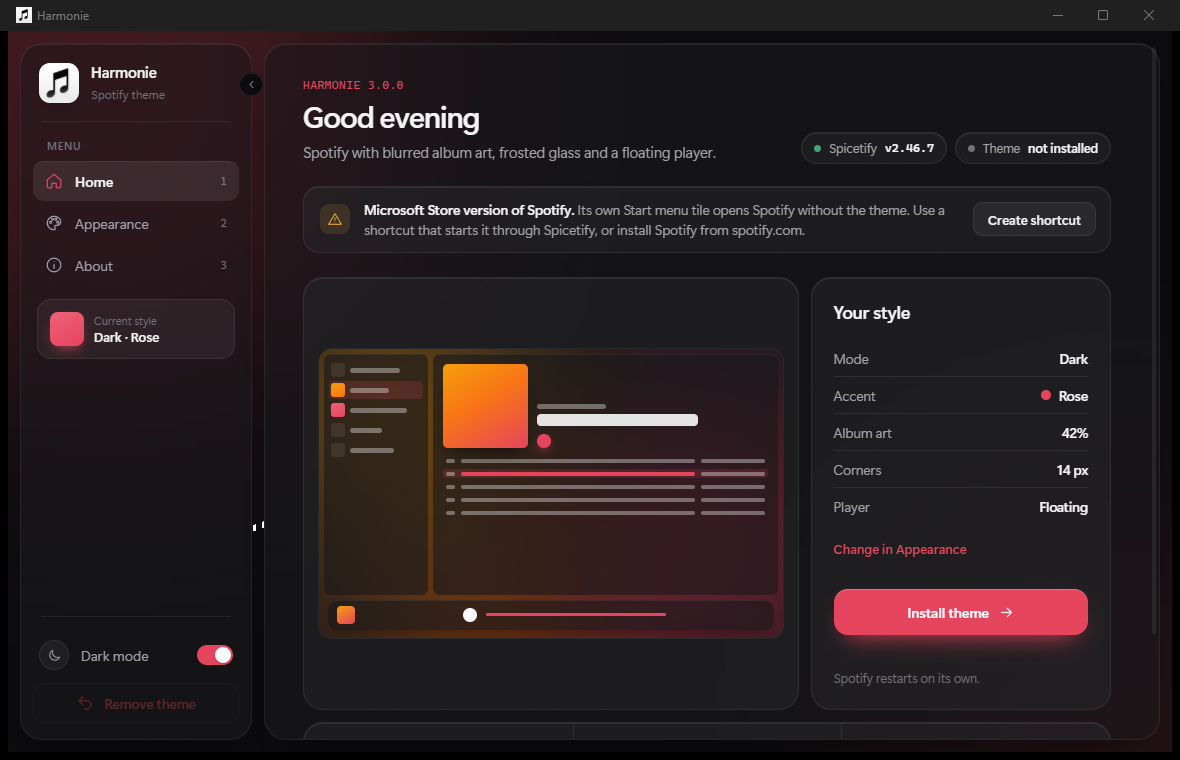
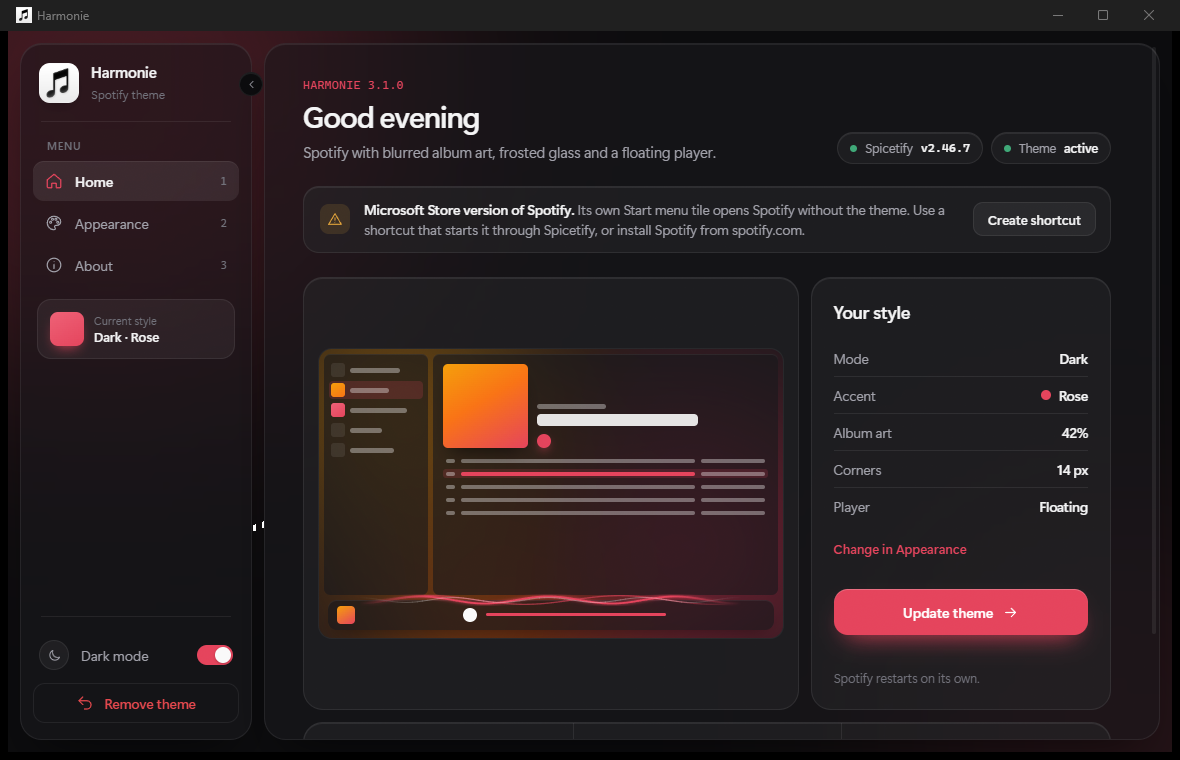
Harmonie 3.1: fixed lyrics, Harmonie wave
Lyrics
- Only style the full lyrics page; the Now Playing lyrics card keeps
  Spotify's colors (it turned transparent before)
- Past lines were dimmed twice (color and Spotify's own opacity) and became
  nearly invisible; they are readable again
- Big bold lines over the blurred cover, more of the cover shows through,
  the current line grows slightly

Harmonie wave
- Three glowing sine waves along the top of the player flow while music
  plays and settle on pause; the cover art breathes gently
- With reduced motion turned on, the wave drifts slowly and nothing pulses
- Same wave in the app's preview player

diff --git a/theme/user.css b/theme/user.css
@@ -284,15 +284,132 @@ h1.encore-text,
   box-shadow: 0 24px 48px -18px rgba(0, 0, 0, 0.6);
 }
 
-/* ---------- Lyrics, Apple Music style ---------- */
-[style*="--lyrics-color-background"] {
+/* ---------- Lyrics, Apple Music style ----------
+   Only the full lyrics page: the small lyrics card in the Now Playing panel keeps
+   Spotify's own colors. */
+[style*="--lyrics-color-background"]:has([data-testid="lyrics-container"]) {
   --lyrics-color-background: transparent !important;
   --lyrics-color-active: rgb(var(--spice-rgb-text)) !important;
-  --lyrics-color-passed: rgba(var(--spice-rgb-text), 0.5) !important;
-  --lyrics-color-inactive: rgba(var(--spice-rgb-text), 0.28) !important;
+  --lyrics-color-passed: rgba(var(--spice-rgb-text), 0.62) !important;
+  --lyrics-color-inactive: rgba(var(--spice-rgb-text), 0.42) !important;
+  --lyrics-color-messaging: rgba(var(--spice-rgb-text), 0.7) !important;
   background-color: transparent !important;
-  font-weight: 700;
-  letter-spacing: -0.02em;
+}
+
+/* Let more of the blurred cover through while lyrics are open. */
+.Root__main-view:has([data-testid="lyrics-container"]) > div {
+  background-color: rgba(var(--spice-rgb-main), 0.24) !important;
+}
+
+.Root__top-container:has([data-testid="lyrics-container"])::before {
+  opacity: min(calc(var(--harmonie-art-opacity) + 0.3), 0.85);
+  filter: blur(calc(var(--harmonie-art-blur) * 0.8)) saturate(1.9);
+}
+
+[data-testid="lyrics-container"] .lyrics-lyricsContent-text {
+  font-family: var(--harmonie-font) !important;
+  font-size: clamp(26px, 2.6vw, 42px) !important;
+  font-weight: 700 !important;
+  line-height: 1.22 !important;
+  letter-spacing: -0.025em !important;
+  text-wrap: balance;
+  transition: color 0.45s var(--harmonie-ease);
+}
+
+[data-testid="lyrics-container"] [dir="auto"]:has(> .lyrics-lyricsContent-text) {
+  padding-block: 8px !important;
+  transform-origin: left center;
+  transition: transform 0.6s var(--harmonie-ease), opacity 0.45s var(--harmonie-ease);
+}
+
+/* Spotify dims clickable past lines with opacity on top of the color; undo that
+   so past lines stay readable. */
+[data-testid="lyrics-container"] [dir="auto"]:has(> .lyrics-lyricsContent-text) {
+  opacity: 1 !important;
+}
+
+/* Current line grows a little. The class name is Spotify's own and may change
+   with updates; if it does, lyrics still work without this effect. */
+[data-testid="lyrics-container"] .SOT5gG00YqnGQ4uR7PwQ {
+  transform: scale(1.035);
+}
+
+/* ---------- Harmonie wave ----------
+   theme.js draws three sine waves along the top of the player. They flow while
+   music plays and settle when it pauses. */
+.main-nowPlayingBar-container {
+  position: relative;
+}
+
+.harmonie-wave {
+  position: absolute;
+  left: 14px;
+  right: 14px;
+  top: -11px;
+  height: 22px;
+  pointer-events: none;
+  overflow: hidden;
+  opacity: 0.35;
+  -webkit-mask-image: linear-gradient(90deg, transparent, #000 18%, #000 82%, transparent);
+  mask-image: linear-gradient(90deg, transparent, #000 18%, #000 82%, transparent);
+  transition: opacity 0.8s var(--harmonie-ease);
+}
+
+.harmonie-wave svg {
+  position: absolute;
+  inset: 0 auto 0 0;
+  width: 200%;
+  height: 100%;
+  overflow: visible;
+  animation: harmonie-flow 7s linear infinite;
+  animation-play-state: paused;
+}
+
+.harmonie-wave svg:nth-child(2) { animation-duration: 11s; animation-direction: reverse; }
+.harmonie-wave svg:nth-child(3) { animation-duration: 16s; }
+
+.harmonie-wave path {
+  fill: none;
+  stroke-linecap: round;
+  vector-effect: non-scaling-stroke;
+}
+
+.harmonie-wave svg:nth-child(1) path {
+  stroke: var(--spice-button);
+  stroke-width: 2.5;
+  filter: drop-shadow(0 0 5px rgba(var(--spice-rgb-button), 0.95));
+}
+
+.harmonie-wave svg:nth-child(2) path {
+  stroke: rgba(var(--spice-rgb-button), 0.6);
+  stroke-width: 1.75;
+}
+
+.harmonie-wave svg:nth-child(3) path {
+  stroke: rgba(var(--spice-rgb-text), 0.35);
+  stroke-width: 1.25;
+}
+
+.harmonie-playing .harmonie-wave {
+  opacity: 1;
+}
+
+.harmonie-playing .harmonie-wave svg {
+  animation-play-state: running;
+}
+
+@keyframes harmonie-flow {
+  to { transform: translateX(-50%); }
+}
+
+/* Cover art in the player breathes gently while music plays. */
+.harmonie-playing .main-nowPlayingWidget-coverArt {
+  animation: harmonie-breathe 4.8s ease-in-out infinite;
+}
+
+@keyframes harmonie-breathe {
+  0%, 100% { filter: drop-shadow(0 0 0 rgba(var(--spice-rgb-button), 0)); }
+  50% { filter: drop-shadow(0 0 14px rgba(var(--spice-rgb-button), 0.55)); }
 }
 
 /* ---------- Menus and dialogs ---------- */
@@ -341,5 +458,14 @@ a:hover {
   .main-cardImage-imageWrapper,
   [data-testid="control-button-playpause"] {
     transition: none !important;
+  }
+
+  /* A slow sideways drift only: no pulsing. */
+  .harmonie-wave svg {
+    animation-duration: 40s !important;
+  }
+
+  .harmonie-playing .main-nowPlayingWidget-coverArt {
+    animation: none !important;
   }
 }

diff --git a/ui/index.html b/ui/index.html
@@ -288,7 +288,19 @@
   .pv-row i { height: 4px; border-radius: 2px; background: var(--pv-sub); }
   .pv-row.on { background: color-mix(in srgb, var(--accent) 16%, transparent); }
   .pv-row.on i:nth-child(2) { background: var(--accent); }
-  .pv-bar-wrap { grid-column: 1 / -1; padding: 0 calc(var(--pv-gap) * 0.35px) calc(var(--pv-gap) * 0.35px); transition: padding .4s var(--spring); }
+  .pv-bar-wrap { position: relative; grid-column: 1 / -1; padding: 0 calc(var(--pv-gap) * 0.35px) calc(var(--pv-gap) * 0.35px); transition: padding .4s var(--spring); }
+  .pv-wave {
+    position: absolute; left: 8%; right: 8%; top: -6px; height: 12px; z-index: 1; pointer-events: none; overflow: hidden;
+    -webkit-mask-image: linear-gradient(90deg, transparent, #000 18%, #000 82%, transparent);
+  }
+  .pv-wave svg { position: absolute; inset: 0 auto 0 0; width: 200%; height: 100%; overflow: visible; animation: harmonie-flow 7s linear infinite; }
+  .pv-wave svg:nth-child(2) { animation-duration: 11s; animation-direction: reverse; }
+  .pv-wave svg:nth-child(3) { animation-duration: 16s; }
+  .pv-wave path { fill: none; vector-effect: non-scaling-stroke; stroke-linecap: round; }
+  .pv-wave svg:nth-child(1) path { stroke: var(--accent); stroke-width: 1.8; filter: drop-shadow(0 0 3px var(--accent)); }
+  .pv-wave svg:nth-child(2) path { stroke: color-mix(in srgb, var(--accent) 60%, transparent); stroke-width: 1.3; }
+  .pv-wave svg:nth-child(3) path { stroke: rgba(255,255,255,.3); stroke-width: 1; }
+  @keyframes harmonie-flow { to { transform: translateX(-50%); } }
   .pv-bar {
     height: 30px; display: flex; align-items: center; gap: 9px; padding: 0 9px;
     border-radius: calc(var(--pv-player-radius, 20) * 0.45px); background: var(--pv-panel);
@@ -382,6 +394,8 @@
   }
   @media (prefers-reduced-motion: reduce) {
     *, *::before, *::after { animation: none !important; transition: none !important; }
+    /* Keep the Harmonie wave drifting slowly, as in the Spotify theme. */
+    .pv-wave svg { animation: harmonie-flow 40s linear infinite !important; }
   }
 </style>
 </head>
@@ -436,7 +450,7 @@
         <div class="pv-row"><i></i><i></i><i></i></div>
       </div>
     </div>
-    <div class="pv-bar-wrap"><div class="pv-bar"><div class="pv-mini"></div><div class="pv-play"></div><div class="pv-prog"><i></i></div></div></div>
+    <div class="pv-bar-wrap"><div class="pv-wave" aria-hidden="true"></div><div class="pv-bar"><div class="pv-mini"></div><div class="pv-play"></div><div class="pv-prog"><i></i></div></div></div>
   </div>
 </template>
 
@@ -632,6 +646,20 @@
 
   /* ----- Previews ----- */
   $$("[data-preview]").forEach((slot) => slot.appendChild($("#pv-tpl").content.cloneNode(true)));
+
+  // The Harmonie wave, same shapes as in the Spotify theme (even periods loop seamlessly).
+  function sinePath(periods, amplitude, phase) {
+    let d = "";
+    for (let x = 0; x <= 1200; x += 8) {
+      const y = 11 + amplitude * Math.sin((x / 1200) * periods * 2 * Math.PI + phase);
+      d += (x ? "L" : "M") + x + "," + y.toFixed(2);
+    }
+    return d;
+  }
+  const waveSvgs = [[6, 6.5, 0], [4, 8, 1.3], [8, 4.5, 2.6]]
+    .map(([p, a, ph]) => `<svg viewBox="0 0 1200 22" preserveAspectRatio="none"><path d="${sinePath(p, a, ph)}"/></svg>`)
+    .join("");
+  $$(".pv-wave").forEach((w) => (w.innerHTML = waveSvgs));
 
   function paintPreviews() {
     const o = state.options;

diff --git a/theme/theme.js b/theme/theme.js
@@ -46,4 +46,61 @@
 
   P.addEventListener("songchange", update);
   update();
+
+  /* ----- Harmonie wave: three sine waves along the top of the player ----- */
+  const NS = "http://www.w3.org/2000/svg";
+
+  // A sine path over 0..1200. The svg is twice the wave's width and slides by half,
+  // so `periods` must be even for the loop to be seamless.
+  function sinePath(periods, amplitude, phase) {
+    const width = 1200;
+    const mid = 11;
+    let d = "";
+    for (let x = 0; x <= width; x += 6) {
+      const y = mid + amplitude * Math.sin((x / width) * periods * 2 * Math.PI + phase);
+      d += (x === 0 ? "M" : "L") + x + "," + y.toFixed(2);
+    }
+    return d;
+  }
+
+  function buildWave() {
+    const wave = document.createElement("div");
+    wave.className = "harmonie-wave";
+    wave.setAttribute("aria-hidden", "true");
+    for (const [periods, amplitude, phase] of [[6, 6.5, 0], [4, 8, 1.3], [8, 4.5, 2.6]]) {
+      const svg = document.createElementNS(NS, "svg");
+      svg.setAttribute("viewBox", "0 0 1200 22");
+      svg.setAttribute("preserveAspectRatio", "none");
+      const path = document.createElementNS(NS, "path");
+      path.setAttribute("d", sinePath(periods, amplitude, phase));
+      svg.appendChild(path);
+      wave.appendChild(svg);
+    }
+    return wave;
+  }
+
+  function ensureWave() {
+    const bar = document.querySelector(".main-nowPlayingBar-container");
+    if (bar && !bar.querySelector(":scope > .harmonie-wave")) bar.appendChild(buildWave());
+  }
+
+  function syncPlaying() {
+    const playing = typeof P.isPlaying === "function" ? P.isPlaying() : !(P.data && P.data.isPaused);
+    root.classList.toggle("harmonie-playing", !!playing);
+  }
+
+  syncPlaying();
+  P.addEventListener("onplaypause", syncPlaying);
+  P.addEventListener("songchange", syncPlaying);
+
+  // Wait for the player to exist, then keep the wave in place if Spotify re-renders it.
+  (function watchPlayer() {
+    const nowPlaying = document.querySelector(".Root__now-playing-bar");
+    if (!nowPlaying) {
+      setTimeout(watchPlayer, 500);
+      return;
+    }
+    ensureWave();
+    new MutationObserver(ensureWave).observe(nowPlaying, { childList: true, subtree: true });
+  })();
 })();

diff --git a/README.md b/README.md
@@ -22,7 +22,8 @@
 ## Features
 
 - **Blurred album art** — the colors of the current cover fill the window and change with every track
-- **Apple Music-style lyrics** — lyrics float over the blurred cover, current line in bold
+- **Apple Music-style lyrics** — big bold lines over the blurred cover, the current line in white
+- **Harmonie wave** — three glowing sine waves ripple along the player while music plays, and settle on pause
 - **Frosted glass** — translucent panels, pill search bar, soft shadows on covers
 - **Floating player** — the bottom player becomes a rounded glass card (or stays docked, your choice)
 - **5 accent colors** — rose, violet, blue, green, orange, in dark and light (10 schemes)
